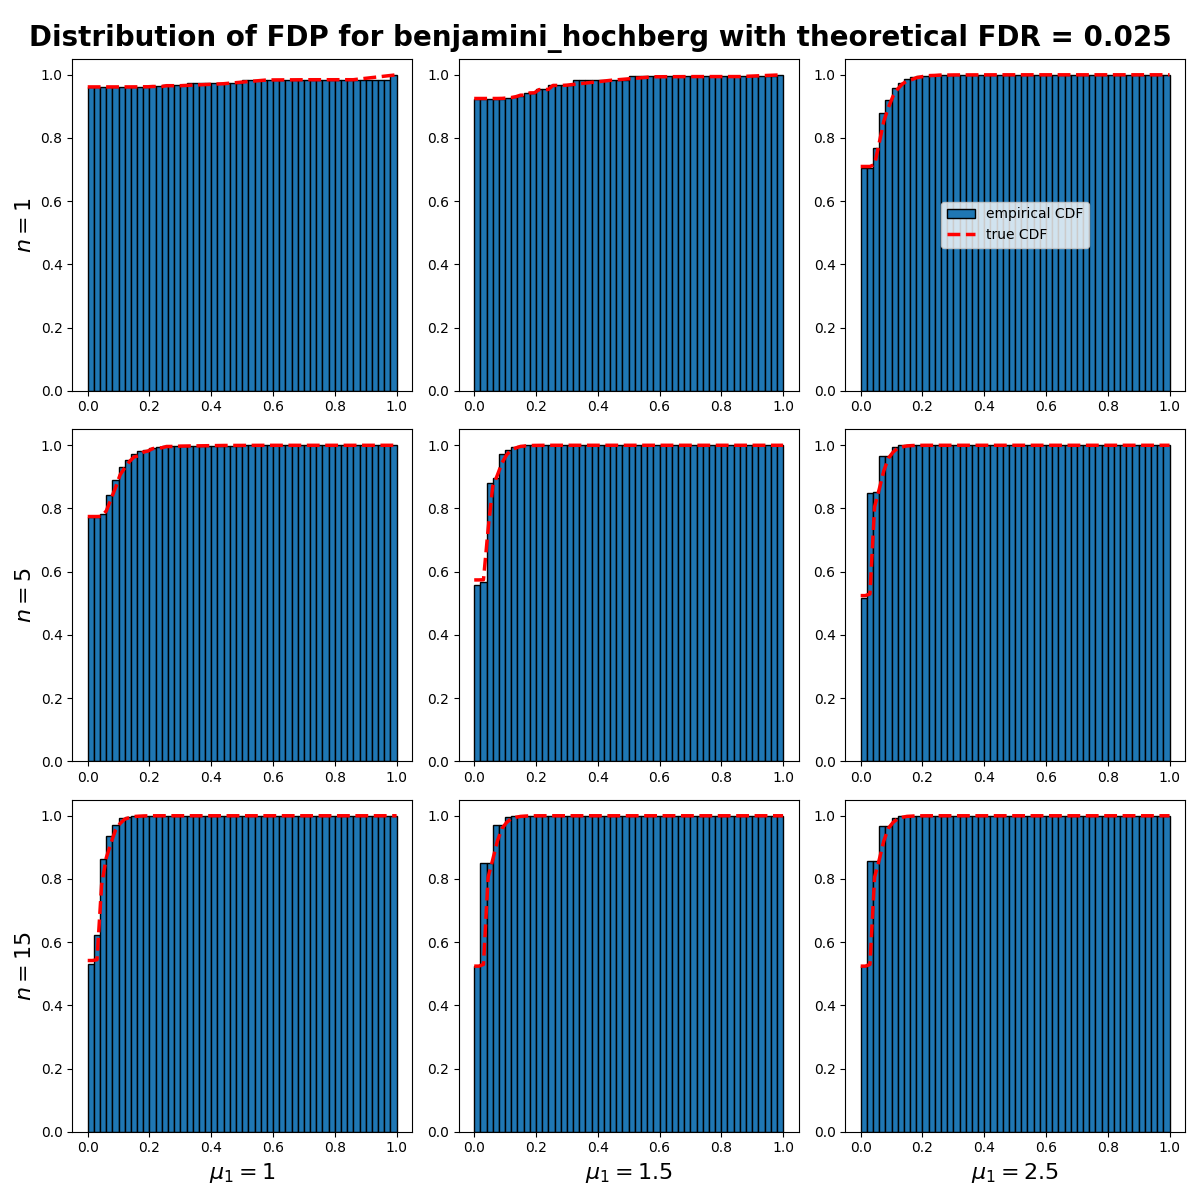
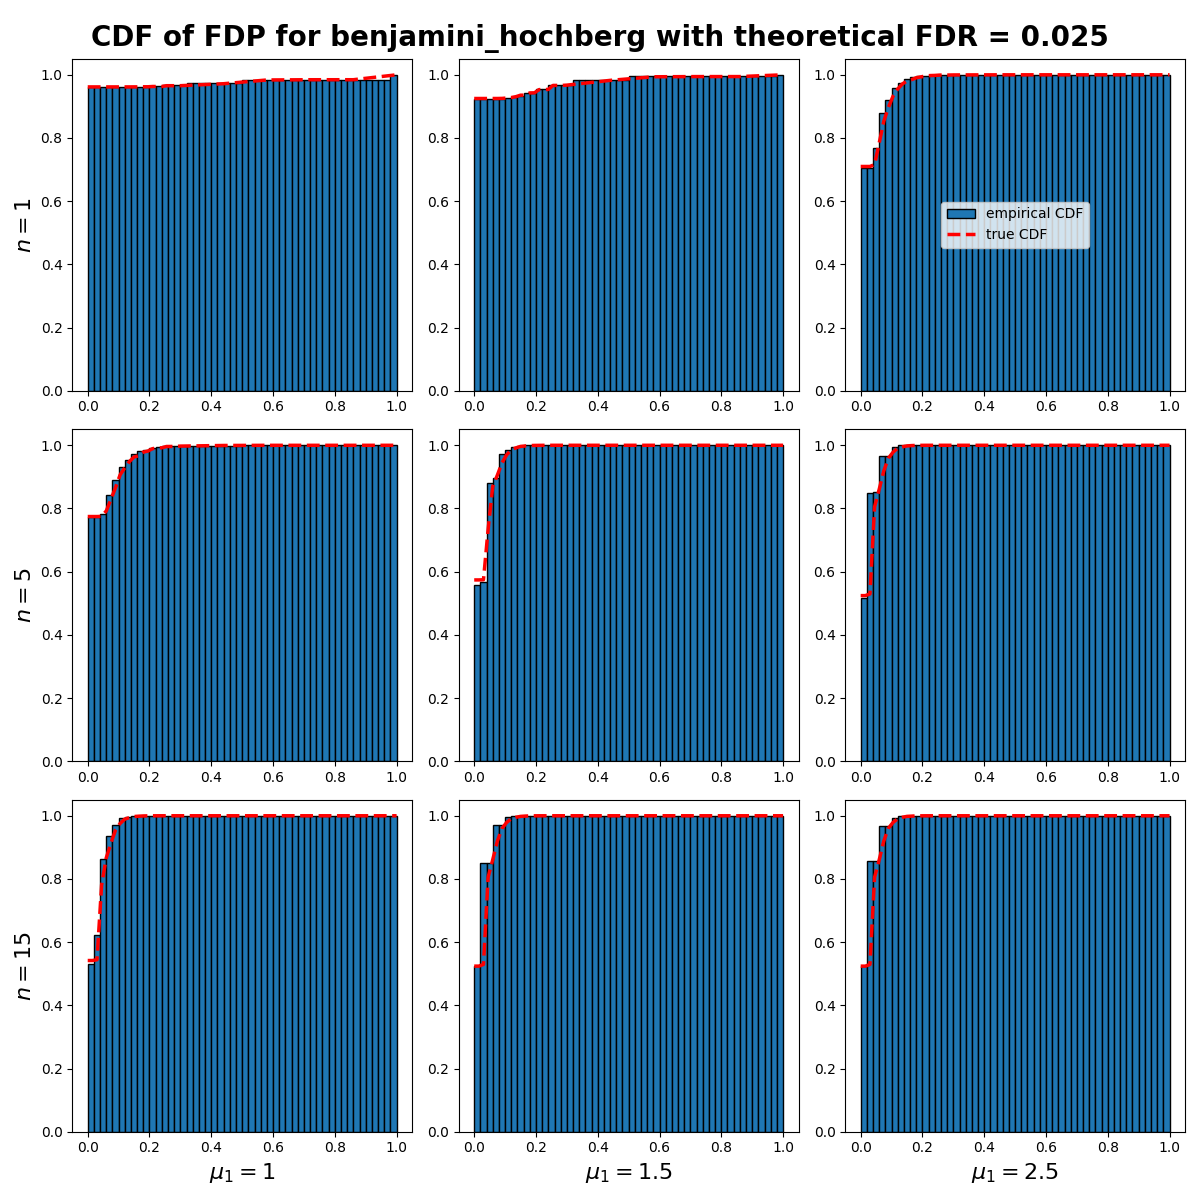
Change graph title

Changed region(s): [[0.0308, 0.0, 0.9867, 0.0617]]

diff --git a/main.py b/main.py
@@ -169,11 +169,11 @@ if not os.path.isfile(figures_5[0]) or not os.path.isfile(figures_6[0]):
     for k, algorithm in enumerate(['bonferroni', 'holm_bonferroni', 'hochberg', 'benjamini_hochberg']):
         fig = figs5[k][0]
         if k == 3:
-            fig.suptitle(fr'Distribution of FDP for {algorithm} with theoretical FDR = {FDR_bh(pi0, alpha):.3f}')
+            fig.suptitle(fr'CDF of FDP for {algorithm} with theoretical FDR = {FDR_bh(pi0, alpha):.3f}')
             ax = figs5[k][1][0][2]
             ax.legend(*ax.get_legend_handles_labels(), loc='center')
         else:
-            fig.suptitle(fr'Distribution of FDP for {algorithm}')
+            fig.suptitle(fr'CDF of FDP for {algorithm}')
         fig.tight_layout()
         fig.savefig(figures_5[k])
 
